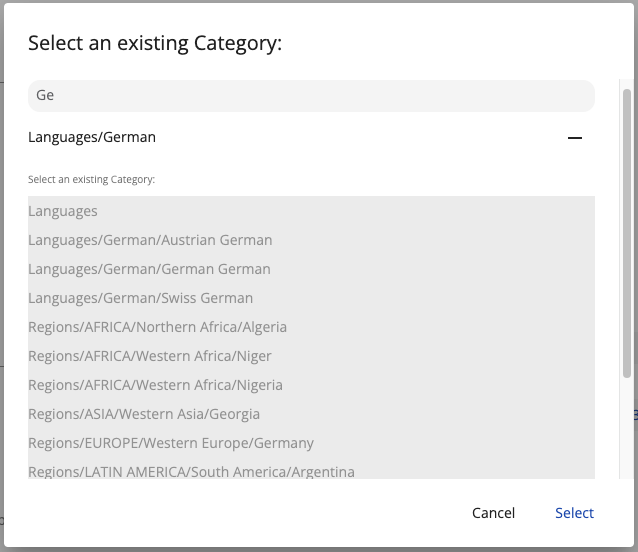
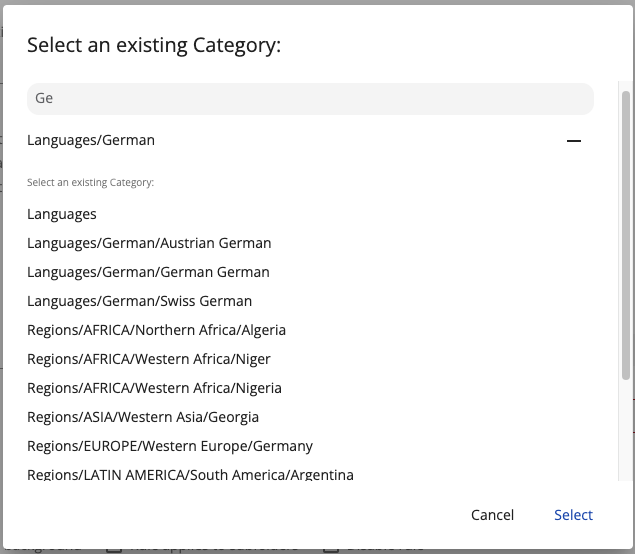
[ACS-6150] align styles

diff --git a/lib/content-services/src/lib/dialogs/category-selector.dialog.html b/lib/content-services/src/lib/dialogs/category-selector.dialog.html
@@ -4,7 +4,6 @@
 
 <mat-dialog-content class="adf-dialog-content">
     <adf-categories-management
-            [ngClass]="{'adf-list-disabled': categories.length && !multiSelect}"
             (categoriesChange)="categories = $event"
             [categoryNameControlVisible]="true"
             [managementMode]="categoriesManagementMode"

diff --git a/lib/content-services/src/lib/dialogs/category-selector.dialog.scss b/lib/content-services/src/lib/dialogs/category-selector.dialog.scss
@@ -2,9 +2,4 @@ adf-category-selector-dialog {
     .adf-dialog-content {
         height: 400px;
     }
-
-    .adf-list-disabled .adf-categories-list .adf-categories-management-list .adf-category {
-        background-color: var(--adf-theme-mat-grey-color-a200);
-        color: var(--adf-theme-foreground-text-color-040);
-    }
 }
